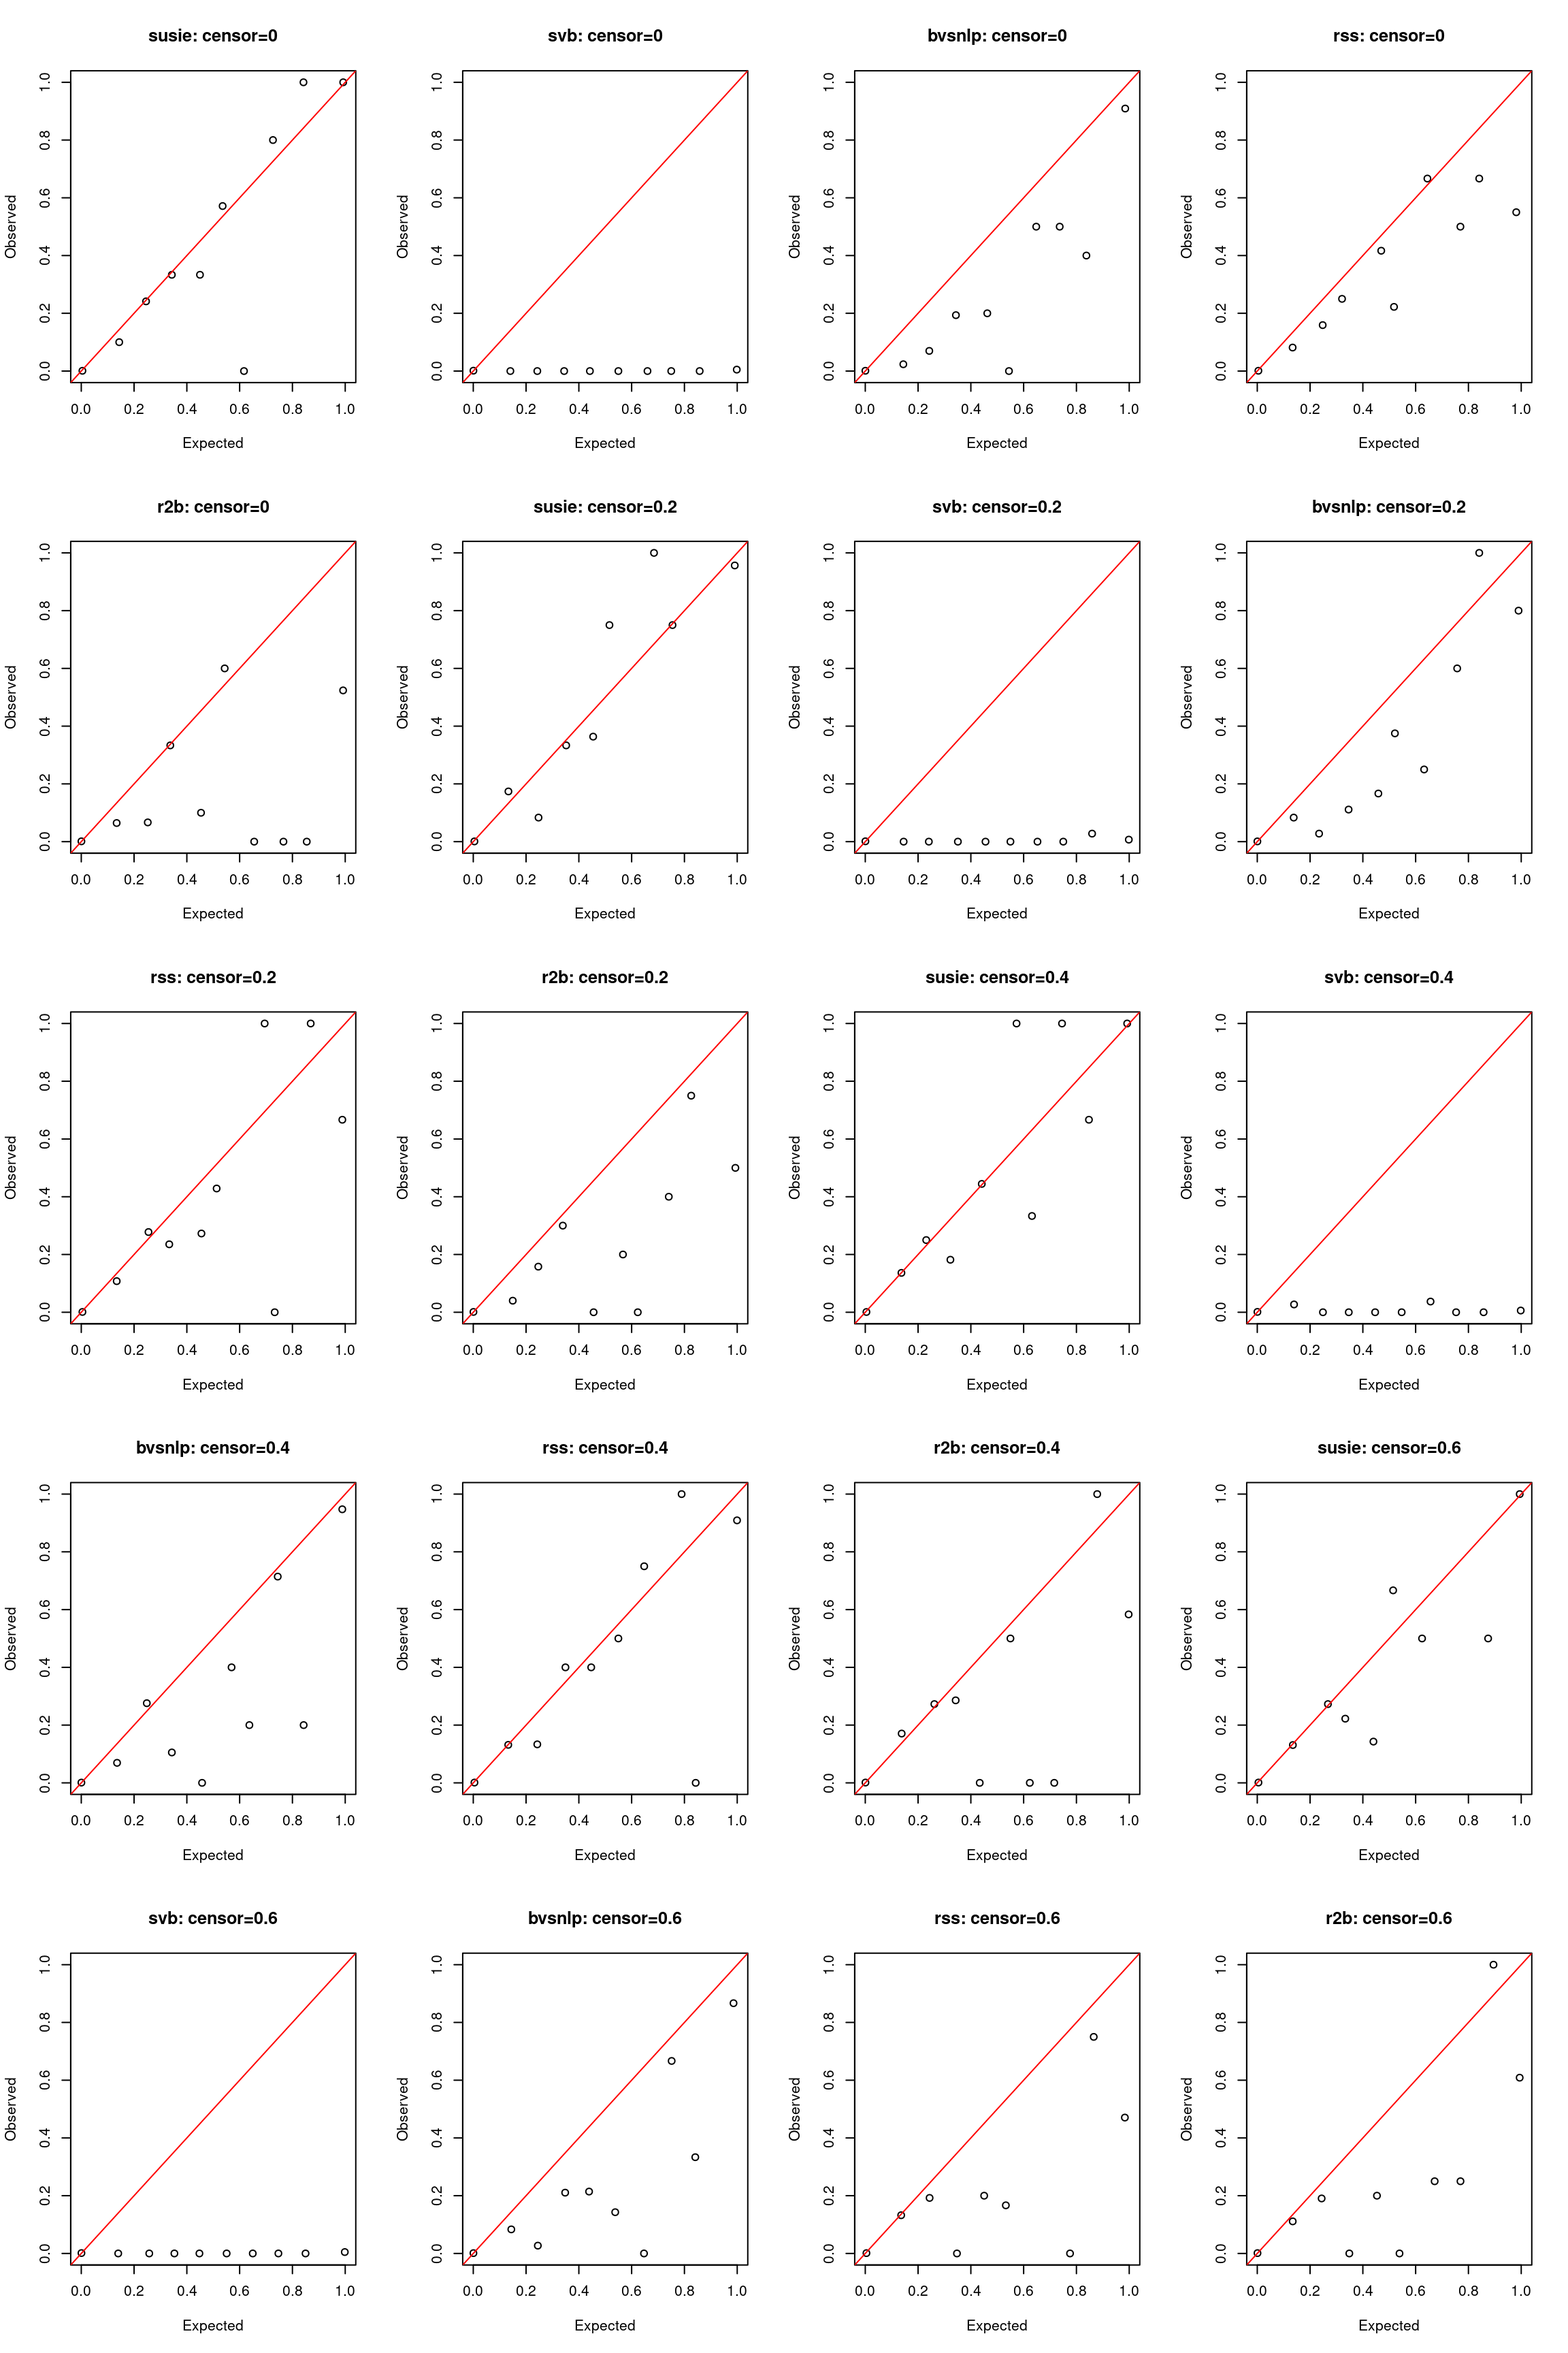
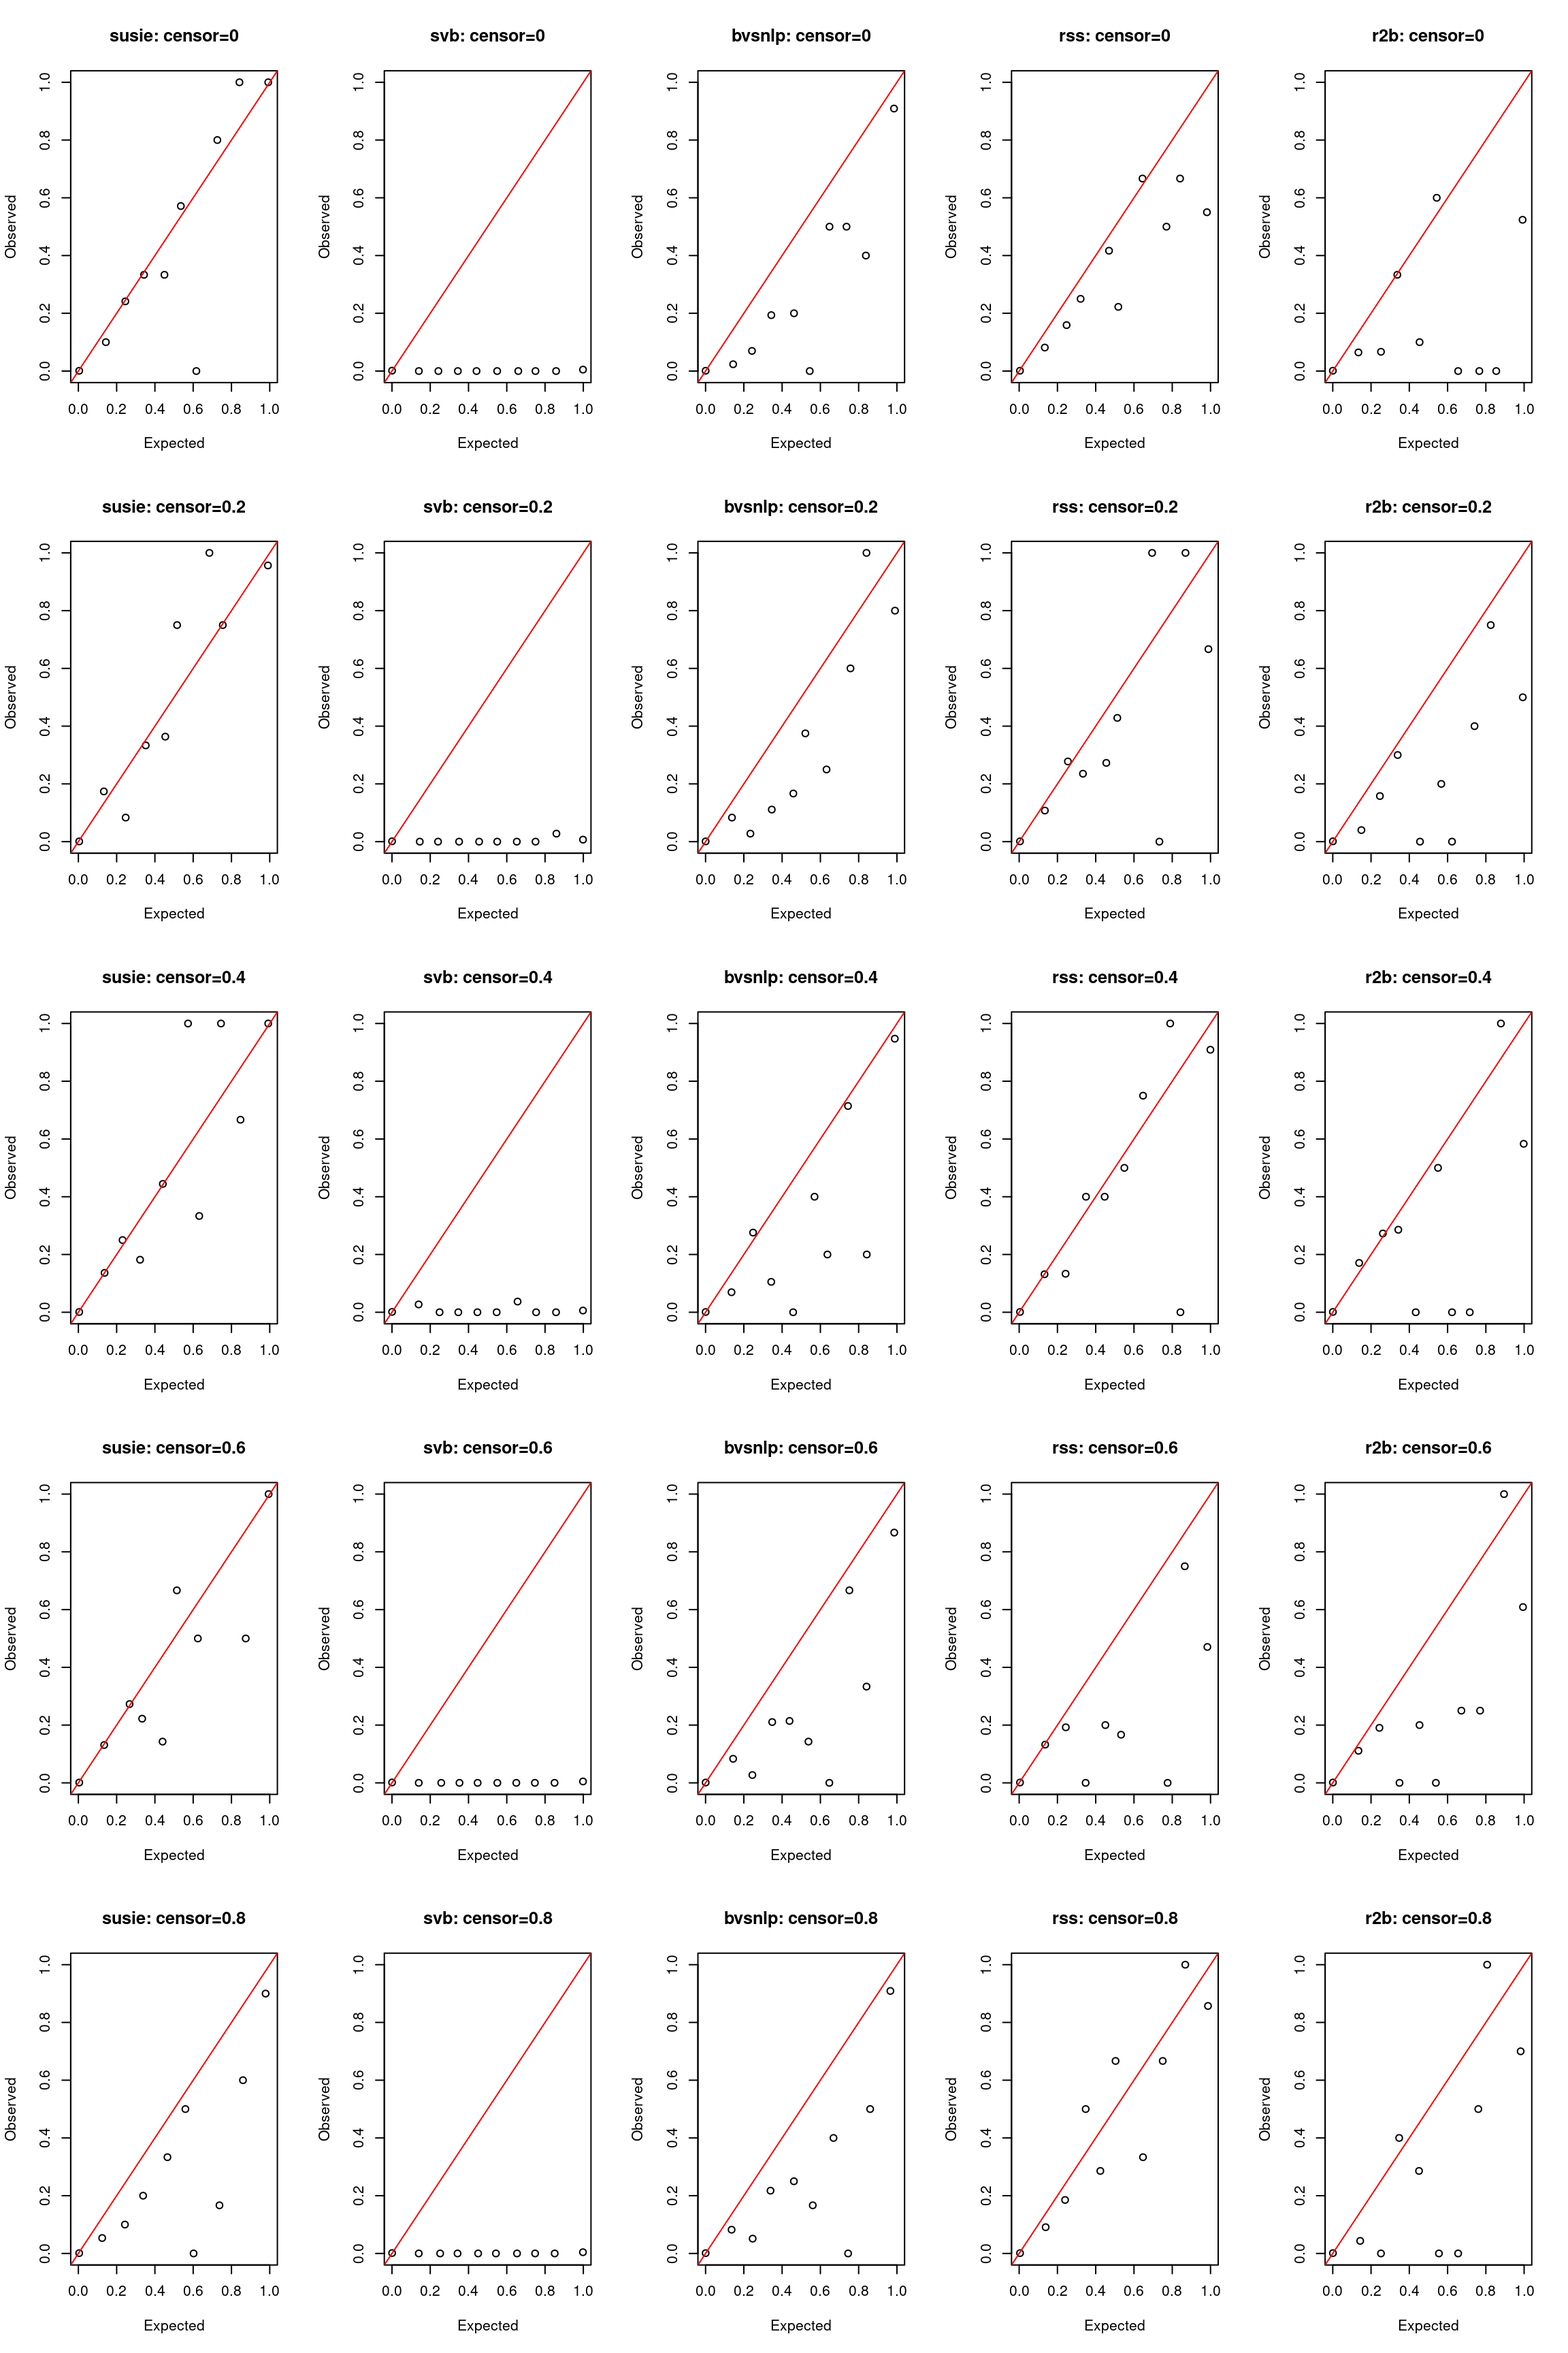
Build site.

diff --git a/docs/compare_pip_10iter.html b/docs/compare_pip_10iter.html
@@ -550,15 +550,15 @@ code/pip.R
 <div class="panel panel-default">
 <div class="panel-heading">
 <p class="panel-title">
-<a data-toggle="collapse" data-parent="#workflowr-checks" href="#strongRepositoryversionstrongahrefhttpsgithubcomyunqiyang0215survivalsusietreebe7519fc9a416a61975797dba6bd8ba44a6a4db1targetblankbe7519fa">
+<a data-toggle="collapse" data-parent="#workflowr-checks" href="#strongRepositoryversionstrongahrefhttpsgithubcomyunqiyang0215survivalsusietree9bcbdc4a8f0b5ac1723391ca15d4d57d358cd721targetblank9bcbdc4a">
 <span class="glyphicon glyphicon-ok text-success"
 aria-hidden="true"></span> <strong>Repository version:</strong>
-<a href="https://github.com/yunqiyang0215/survival-susie/tree/be7519fc9a416a61975797dba6bd8ba44a6a4db1" target="_blank">be7519f</a>
+<a href="https://github.com/yunqiyang0215/survival-susie/tree/9bcbdc4a8f0b5ac1723391ca15d4d57d358cd721" target="_blank">9bcbdc4</a>
 </a>
 </p>
 </div>
 <div
[2 lines of base64/hex data omitted]
 class="panel-collapse collapse">
 <div class="panel-body">
 <p>
@@ -568,7 +568,7 @@ reproducibility.
 </p>
 <p>
 The results in this page were generated with repository version
-<a href="https://github.com/yunqiyang0215/survival-susie/tree/be7519fc9a416a61975797dba6bd8ba44a6a4db1" target="_blank">be7519f</a>.
+<a href="https://github.com/yunqiyang0215/survival-susie/tree/9bcbdc4a8f0b5ac1723391ca15d4d57d358cd721" target="_blank">9bcbdc4</a>.
 See the <em>Past versions</em> tab to see a history of the changes made
 to the R Markdown and HTML files.
 </p>
@@ -632,6 +632,40 @@ Message
 </tr>
 </thead>
 <tbody>
+<tr>
+<td>
+Rmd
+</td>
+<td>
+<a href="https://github.com/yunqiyang0215/survival-susie/blob/9bcbdc4a8f0b5ac1723391ca15d4d57d358cd721/analysis/compare_pip_10iter.Rmd" target="_blank">9bcbdc4</a>
+</td>
+<td>
+yunqi yang
+</td>
+<td>
+2024-03-11
+</td>
+<td>
+wflow_publish("analysis/compare_pip_10iter.Rmd")
+</td>
+</tr>
+<tr>
+<td>
+html
+</td>
+<td>
+<a href="https://rawcdn.githack.com/yunqiyang0215/survival-susie/62d31707b2e8de334a1473677eccd1773cf282df/docs/compare_pip_10iter.html" target="_blank">62d3170</a>
+</td>
+<td>
+yunqi yang
+</td>
+<td>
+2024-03-11
+</td>
+<td>
+Build site.
+</td>
+</tr>
 <tr>
 <td>
 Rmd
@@ -952,7 +986,7 @@ yunqi yang
 </table>
 </div>
 </div>
-<pre class="r"><code>par(mfrow = c(5,4))
+<pre class="r"><code>par(mfrow = c(5,5))
 for (i in 1:length(censor_lvls)){
   indx = which(bvsnlp$simulate.cor_type == &quot;real&quot; &amp; bvsnlp$simulate.censor_lvl == censor_lvls[i])
   is_effect = unlist(lapply(indx, function(x) bvsnlp$simulate.is_effect[[x]]))
@@ -1007,6 +1041,17 @@ Date
 <tbody>
 <tr>
 <td>
+<a href="https://github.com/yunqiyang0215/survival-susie/blob/62d31707b2e8de334a1473677eccd1773cf282df/docs/figure/compare_pip_10iter.Rmd/unnamed-chunk-5-1.png" target="_blank">62d3170</a>
+</td>
+<td>
+yunqi yang
+</td>
+<td>
+2024-03-11
+</td>
+</tr>
+<tr>
+<td>
 <a href="https://github.com/yunqiyang0215/survival-susie/blob/d7d95b5d8596ca280438e8bcfd4c52a63258d928/docs/figure/compare_pip_10iter.Rmd/unnamed-chunk-5-1.png" target="_blank">d7d95b5</a>
 </td>
 <td>
@@ -1052,66 +1097,6 @@ yunqi yang
 <tr>
 <td>
 <a href="https://github.com/yunqiyang0215/survival-susie/blob/04c45c7597ce6774040a0eef7158cfb37120fa7d/docs/figure/compare_pip_10iter.Rmd/unnamed-chunk-5-1.png" target="_blank">04c45c7</a>
-</td>
-<td>
-yunqi yang
-</td>
-<td>
-2024-03-11
-</td>
-</tr>
-</tbody>
-</table>
-</div>
-</div>
-<p><img src="figure/compare_pip_10iter.Rmd/unnamed-chunk-5-2.png" width="1152" style="display: block; margin: auto;" /></p>
-<p>
-<button type="button" class="btn btn-default btn-xs btn-workflowr btn-workflowr-fig" data-toggle="collapse" data-target="#fig-unnamed-chunk-5-2">
-Past versions of unnamed-chunk-5-2.png
-</button>
-</p>
-<div id="fig-unnamed-chunk-5-2" class="collapse">
-<div class="table-responsive">
-<table class="table table-condensed table-hover">
-<thead>
-<tr>
-<th>
-Version
-</th>
-<th>
-Author
-</th>
-<th>
-Date
-</th>
-</tr>
-</thead>
-<tbody>
-<tr>
-<td>
-<a href="https://github.com/yunqiyang0215/survival-susie/blob/d7d95b5d8596ca280438e8bcfd4c52a63258d928/docs/figure/compare_pip_10iter.Rmd/unnamed-chunk-5-2.png" target="_blank">d7d95b5</a>
-</td>
-<td>
-yunqi yang
-</td>
-<td>
-2024-03-11
-</td>
-</tr>
-<tr>
-<td>
-<a href="https://github.com/yunqiyang0215/survival-susie/blob/c55fa8f89d2346ef7fa44840239394edb3c06ed3/docs/figure/compare_pip_10iter.Rmd/unnamed-chunk-5-2.png" target="_blank">c55fa8f</a>
-</td>
-<td>
-yunqi yang
-</td>
-<td>
-2024-03-11
-</td>
-</tr>
-<tr>
-<td>
-<a href="https://github.com/yunqiyang0215/survival-susie/blob/04c45c7597ce6774040a0eef7158cfb37120fa7d/docs/figure/compare_pip_10iter.Rmd/unnamed-chunk-5-2.png" target="_blank">04c45c7</a>
 </td>
 <td>
 yunqi yang
@@ -1216,7 +1201,7 @@ yunqi yang
 </table>
 </div>
 </div>
-<pre class="r"><code>par(mfrow = c(5,4))
+<pre class="r"><code>par(mfrow = c(5,5))
 for (i in 1:length(censor_lvls)){
   indx = which(bvsnlp$simulate.cor_type == &quot;independent&quot; &amp; bvsnlp$simulate.censor_lvl == censor_lvls[i])
   is_effect = unlist(lapply(indx, function(x) bvsnlp$simulate.is_effect[[x]]))
@@ -1271,7 +1256,7 @@ Date
 <tbody>
 <tr>
 <td>
-<a href="https://github.com/yunqiyang0215/survival-susie/blob/d7d95b5d8596ca280438e8bcfd4c52a63258d928/docs/figure/compare_pip_10iter.Rmd/unnamed-chunk-7-1.png" target="_blank">d7d95b5</a>
+<a href="https://github.com/yunqiyang0215/survival-susie/blob/62d31707b2e8de334a1473677eccd1773cf282df/docs/figure/compare_pip_10iter.Rmd/unnamed-chunk-7-1.png" target="_blank">62d3170</a>
 </td>
 <td>
 yunqi yang
@@ -1280,36 +1265,9 @@ yunqi yang
 2024-03-11
 </td>
 </tr>
-</tbody>
-</table>
-</div>
-</div>
-<p><img src="figure/compare_pip_10iter.Rmd/unnamed-chunk-7-2.png" width="1152" style="display: block; margin: auto;" /></p>
-<p>
-<button type="button" class="btn btn-default btn-xs btn-workflowr btn-workflowr-fig" data-toggle="collapse" data-target="#fig-unnamed-chunk-7-2">
-Past versions of unnamed-chunk-7-2.png
-</button>
-</p>
-<div id="fig-unnamed-chunk-7-2" class="collapse">
-<div class="table-responsive">
-<table class="table table-condensed table-hover">
-<thead>
-<tr>
-<th>
-Version
-</th>
-<th>
-Author
-</th>
-<th>
-Date
-</th>
-</tr>
-</thead>
-<tbody>
 <tr>
 <td>
-<a href="https://github.com/yunqiyang0215/survival-susie/blob/d7d95b5d8596ca280438e8bcfd4c52a63258d928/docs/figure/compare_pip_10iter.Rmd/unnamed-chunk-7-2.png" target="_blank">d7d95b5</a>
+<a href="https://github.com/yunqiyang0215/survival-susie/blob/d7d95b5d8596ca280438e8bcfd4c52a63258d928/docs/figure/compare_pip_10iter.Rmd/unnamed-chunk-7-1.png" target="_blank">d7d95b5</a>
 </td>
 <td>
 yunqi yang
